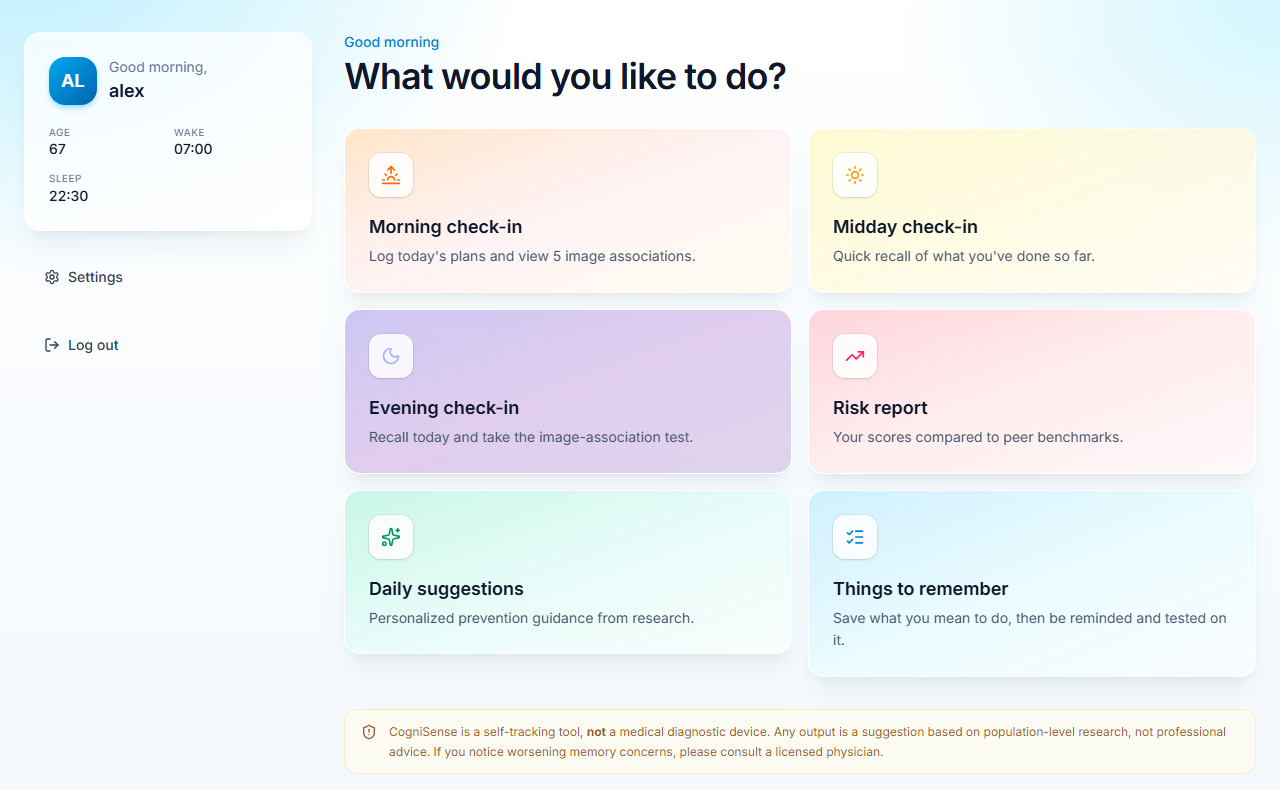
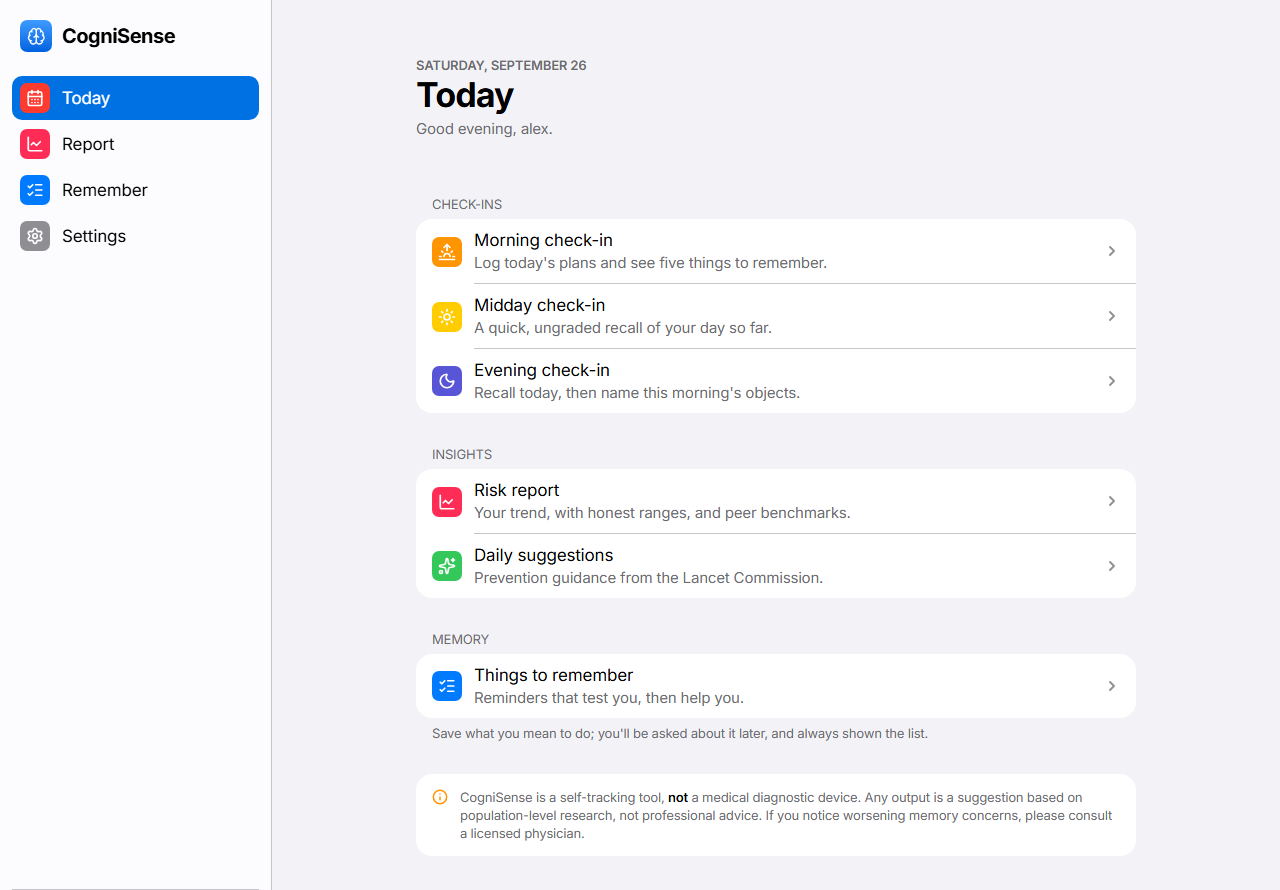
README: screenshots of the new design
The report on a desktop and Today on a phone in dark mode at the top, and
Today on a desktop under "What's in v1.0", all on the demo account's
synthetic data. The feature list now names the Apple-style interface.

diff --git a/README.md b/README.md
@@ -18,18 +18,18 @@ Alzheimer's disease and related dementias (ADRD).
 > diagnostic device**.
 
 <p align="center">
-  <img src="docs/screenshots/report.png" width="70%" alt="The risk report: the recent average with its 95% range, peer benchmarks, and a 30-day trend chart of daily scores with the 7-day average, its 95% band and the personal baseline">
+  <img src="docs/screenshots/report.png" width="70%" alt="The report on a desktop: the recent average with its 95% range, peer benchmarks, and a 30-day trend chart of daily scores with the 7-day average, its 95% band and the personal baseline">
   &nbsp;
-  <img src="docs/screenshots/phone-dark.png" width="24%" alt="The same trend card on a phone in dark mode">
+  <img src="docs/screenshots/phone-dark.png" width="24%" alt="The Today screen on a phone in dark mode: the day's check-ins as a grouped list, above a tab bar">
 </p>
-<p align="center"><sub>The risk report and trend, on a desktop and on a phone in dark mode. Demo account, synthetic data.</sub></p>
+<p align="center"><sub>The report on a desktop, and Today on a phone in dark mode. Demo account, synthetic data.</sub></p>
 
 > **Important:** CogniSense is a research and self-tracking tool. It is **NOT** a medical diagnostic device and does not replace professional evaluation. Any output from this app is a suggestion, not professional advice. If you or a loved one are experiencing worsening memory concerns, please consult a licensed physician or neurologist.
 
 ## What's in v1.0
 
 <p align="center">
-  <img src="docs/screenshots/dashboard.png" width="80%" alt="The dashboard: morning, midday and evening check-ins, the risk report, daily suggestions and things to remember">
+  <img src="docs/screenshots/dashboard.png" width="80%" alt="Today on a desktop: the morning, midday and evening check-ins, the report, daily suggestions and things to remember, with the sidebar">
 </p>
 
 1. **Onboarding** — age, gender, race/ethnicity, wake and sleep times, and a time zone taken from the device
@@ -43,7 +43,8 @@ Alzheimer's disease and related dementias (ADRD).
 9. **Reminder notifications** — Web Push that arrives with the app closed, with quiet hours and a cooldown
 10. **Accounts** — revocable sessions, rate-limited login, password change, recovery codes, and email recovery when SMTP is configured
 11. **Two clients** — a web app that installs to a phone's Home Screen, and a Tkinter desktop app
-12. **Safety layer** — the non-diagnostic disclaimer on every screen and report
+12. **An Apple-style interface** — built to Apple's Human Interface Guidelines: the system font (SF Pro on Apple devices), system colours in light and dark, large titles, grouped lists, a tab bar on phones and a sidebar on larger screens
+13. **Safety layer** — the non-diagnostic disclaimer on every screen and report
 
 **Speech scoring is backend-only for now.** A PyTorch 1D-CNN over MFCC features
 scores a recording uploaded to `POST /checkins/morning/{id}/audio`, but neither
